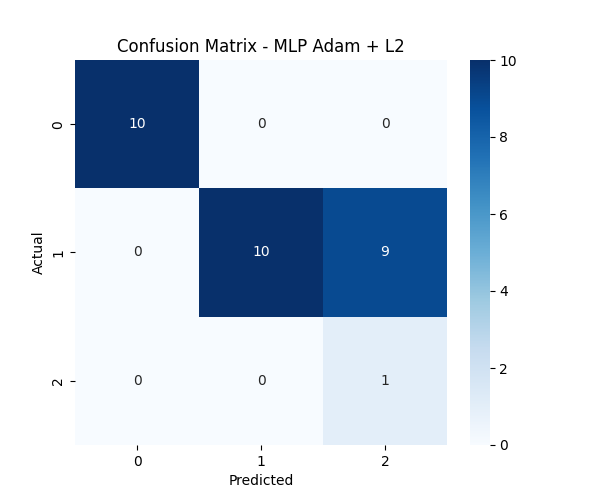
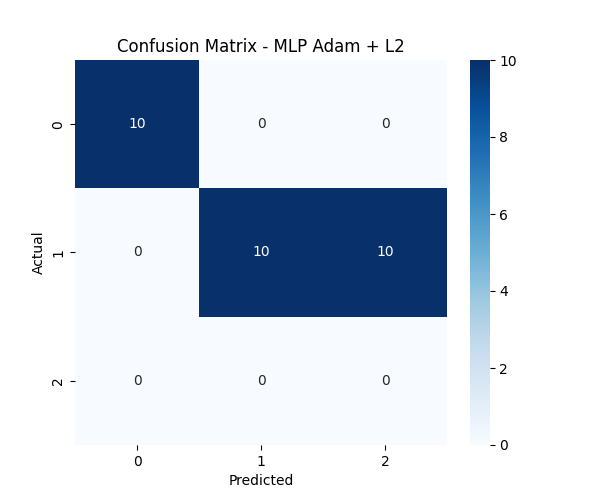
- optimizer update

Changed region(s): [[0.54, 0.36, 0.75, 0.66], [0.63, 0.75, 0.66, 0.78]]

diff --git a/src/models/mlp_run.py b/src/models/mlp_run.py
@@ -3,8 +3,8 @@ from mlp.layers import Dense
 from mlp.optimizers import Adam
 from mlp.lr_schedules import ExponentialDecay, StepDecay
 
-lr_schedule = ExponentialDecay(initial_lr=0.001, decay_rate=0.01)
-adam_optimizer = Adam(learning_rate=0.001, schedule=lr_schedule)
+lr_schedule = ExponentialDecay(initial_lr=0.01, decay_rate=0.01)
+adam_optimizer = Adam(schedule=lr_schedule)
 model = MLP([
     Dense(neurons=10, input_size=4, activation='relu'),
     Dense(neurons=8, activation='relu'),
@@ -32,6 +32,39 @@ def load_keras_iris_dataset():
 
 model.summary()
 X_train, X_test, y_train, y_test, _, _ = load_keras_iris_dataset()
-model.fit(X_train, y_train, epochs=230, validation=(X_test, y_test), log_level=1)
+history = model.fit(X_train, y_train, epochs=230, validation=(X_test, y_test), log_level=1)
 predict, acc = model.predict(X_test, y_test)
 print("Accuracy: ", acc) 
+
+import matplotlib.pyplot as plt
+
+def plot_history(history, save_path="training_history.png"):
+    plt.figure(figsize=(12, 5))
+
+    # Loss
+    plt.subplot(1, 2, 1)
+    plt.plot(history['loss'], label='Training Loss')
+    plt.plot(history['val_loss'], label='Validation Loss')
+    plt.xlabel('Epochs')
+    plt.ylabel('Loss')
+    plt.legend()
+    plt.title('Loss over Epochs')
+
+    # Accuracy
+    plt.subplot(1, 2, 2)
+    plt.plot(history['accuracy'], label='Training Accuracy')
+    plt.plot(history['val_accuracy'], label='Validation Accuracy')
+    plt.xlabel('Epochs')
+    plt.ylabel('Accuracy')
+    plt.legend()
+    plt.title('Accuracy over Epochs')
+
+    plt.tight_layout()
+    plt.savefig(save_path)  # Zapisz wykres jako plik
+    print(f"Plot saved as {save_path}")
+
+plot_history(history)
+
+
+#TODO -> sprawdzenie tego val_lossa wzgledem lossa, jest mniejszy. Sprawdzenie jak wygladaja te roznice ok?
+### patrzac niby po tf, to tak ma byc? Ale no, trzeba sprawdzic. W teorii loss -> dazymy do najmniejszego, val_loss -> moze poskakac, praktyka odwrotnie.

diff --git a/src/models/mlp/optimizers.py b/src/models/mlp/optimizers.py
@@ -1,6 +1,6 @@
 import numpy as np
 class Optimizer:
-    def __init__(self, learning_rate=0.01, schedule=None):
+    def __init__(self, learning_rate, schedule=None):
         self.learning_rate = learning_rate
         self.schedule = schedule
 
@@ -21,7 +21,7 @@ class SGD(Optimizer):
 
 class Adam(Optimizer):
     def __init__(self, learning_rate=0.001, beta1=0.9, beta2=0.999, epsilon=1e-8, schedule=None):
-        super().__init__(learning_rate)
+        super().__init__(learning_rate, schedule)
         self.beta1 = beta1
         self.beta2 = beta2
         self.epsilon = epsilon
